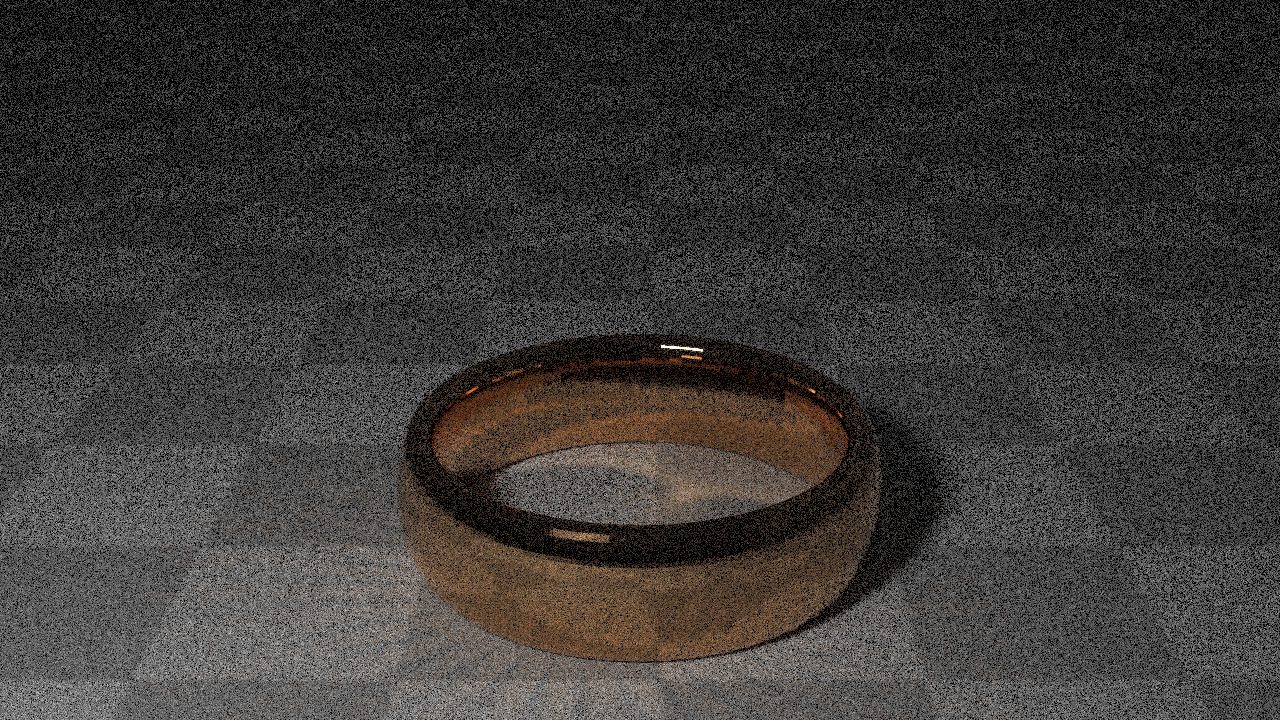
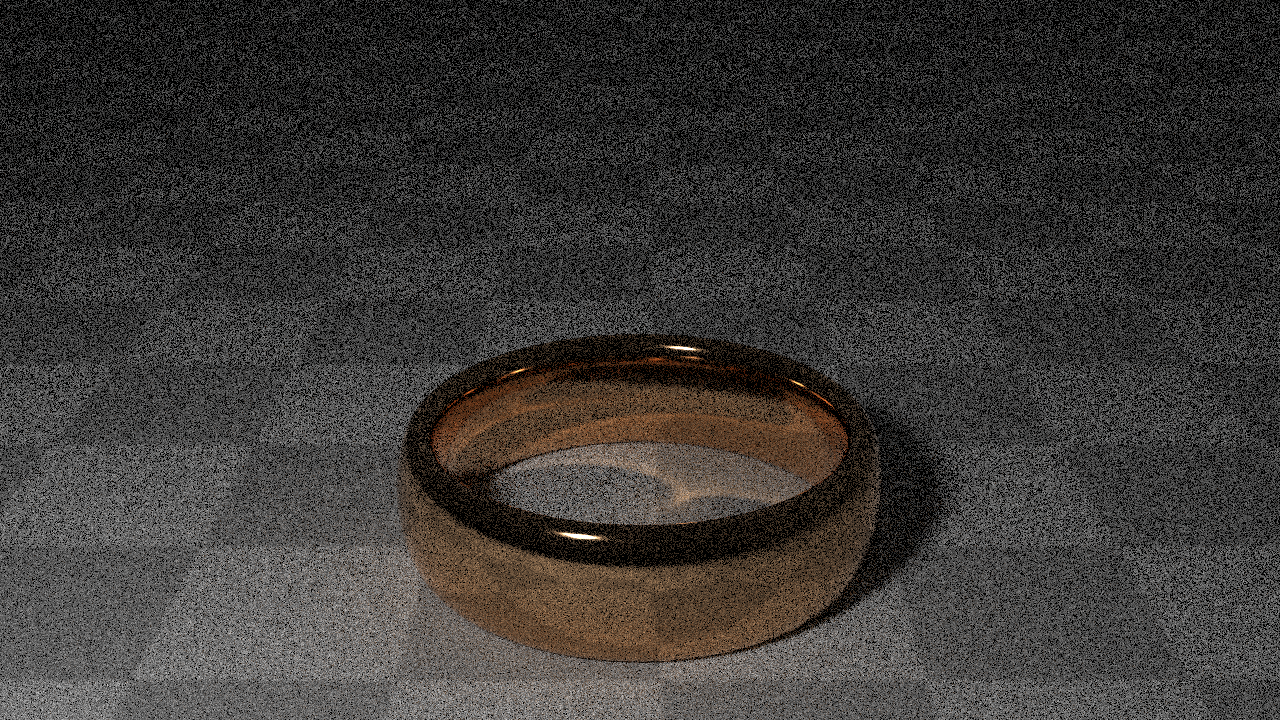
added smoothed vertex normals - gpu version

Changed region(s): [[0.25, 0.4583, 0.7188, 1.0], [0.3438, 0.9778, 0.375, 1.0]]

diff --git a/apps/VulkanPathTracePrototype.cpp b/apps/VulkanPathTracePrototype.cpp
@@ -41,6 +41,13 @@ struct PushConstantsSample
   alignas(4) int32_t nSamples;
   alignas(4) Vec3f backgroundColor;
 };
+struct TriangleData
+{
+  alignas(4) uint32_t vertexIndices[3];
+  alignas(4) uint32_t materialIndex;
+  alignas(4) Vec2f textureCoordinates[3];
+  alignas(4) int32_t normalIndices[3];
+};
 
 
 template<typename _PixelType>
@@ -202,18 +209,17 @@ public:
     {
       faceCount += scene.getTriangleCount(geometryID);
     }
-    std::vector<Vec2f> textureCoordinates;
-    textureCoordinates.reserve(faceCount * 3);
     std::vector<uint32_t> indices;
     indices.reserve(faceCount * 3);
-    std::vector<uint32_t> materialIndices;
-    materialIndices.reserve(faceCount);
+    std::vector<TriangleData> triangles;
+    triangles.reserve(faceCount);
+    const std::vector<float>& normals = scene.getNormals();
     std::vector<MaterialUniformBufferObject> materials;
     materials.reserve(scene.getMaterialCount());
 
     backgroundColor = Vec3f::Zero();
 
-    BackgroundColor const * backgroundColorObject = dynamic_cast<BackgroundColor const *>(&scene.getBackground());
+    BackgroundColor const* backgroundColorObject = dynamic_cast<BackgroundColor const*>(&scene.getBackground());
     if(backgroundColorObject != nullptr)
     {
       backgroundColor = backgroundColorObject->getColor();
@@ -283,16 +289,18 @@ public:
         indices.push_back(tri[0]);
         indices.push_back(tri[1]);
         indices.push_back(tri[2]);
-
-        materialIndices.push_back(scene.getMaterialIndex(geometryID, primIndex));
-
         std::array<Vec2f, 3> uv = { Vec2f::Zero(), Vec2f::Zero(), Vec2f::Zero() };
         std::optional< std::array<Vec2f, 3> > uvOptional = scene.getTriangleUV(geometryID, primIndex);
         if(uvOptional.has_value()) uv = uvOptional.value();
 
-        textureCoordinates.push_back(uv[0]);
-        textureCoordinates.push_back(uv[1]);
-        textureCoordinates.push_back(uv[2]);
+        std::array<int, 3> normalIndices = scene.getTriangleNormalIndices(geometryID, primIndex);
+
+        triangles.emplace_back();
+        auto& triangle = triangles.back();
+        triangle.materialIndex = scene.getMaterialIndex(geometryID, primIndex);
+        for(int i = 0; i < 3; i++) triangle.textureCoordinates[i] = uv[i];
+        for(int i = 0; i < 3; i++) triangle.vertexIndices[i] = tri[i];
+        for(int i = 0; i < 3; i++) triangle.normalIndices[i] = normalIndices[i];
       }
       faceOffset += geometryFaceCount;
     }
@@ -315,9 +323,9 @@ public:
     }
 
     std::size_t verticesByteCount = sizeof(decltype(vertices)::value_type) * vertices.size();
-    std::size_t textureCoordinatesByteCount = sizeof(decltype(textureCoordinates)::value_type) * textureCoordinates.size();
     std::size_t indicesByteCount = sizeof(decltype(indices)::value_type) * indices.size();
-    std::size_t materialIndicesByteCount = sizeof(decltype(materialIndices)::value_type) * materialIndices.size();
+    std::size_t trianglesByteCount = sizeof(decltype(triangles)::value_type) * triangles.size();
+    std::size_t normalsByteCount = sizeof(std::remove_reference_t<decltype(normals)>::value_type) * normals.size();
     std::size_t materialsByteCount = sizeof(decltype(materials)::value_type) * materials.size();
     std::size_t randomInputStateByteCount = sizeof(decltype(randomInputState)::value_type) * randomInputState.size();
 
@@ -332,14 +340,14 @@ public:
     vertexBuffer = std::make_unique<VulkanBuffer>(deviceAndQueue, verticesByteCount, accelerationStructureBufferUsageFlags, VK_MEMORY_PROPERTY_DEVICE_LOCAL_BIT | VK_MEMORY_PROPERTY_HOST_VISIBLE_BIT);
     vertexBuffer->write((void*)vertices.data(), verticesByteCount);
 
-    textureCoordinatesBuffer = std::make_unique<VulkanBuffer>(deviceAndQueue, textureCoordinatesByteCount, VK_BUFFER_USAGE_STORAGE_BUFFER_BIT, VK_MEMORY_PROPERTY_DEVICE_LOCAL_BIT | VK_MEMORY_PROPERTY_HOST_VISIBLE_BIT);
-    textureCoordinatesBuffer->write((void*)textureCoordinates.data(), textureCoordinatesByteCount);
-
     indexBuffer = std::make_unique<VulkanBuffer>(deviceAndQueue, indicesByteCount, accelerationStructureBufferUsageFlags, VK_MEMORY_PROPERTY_DEVICE_LOCAL_BIT | VK_MEMORY_PROPERTY_HOST_VISIBLE_BIT);
     indexBuffer->write((void*)indices.data(), indicesByteCount);
 
-    materialIndicesBuffer = std::make_unique<VulkanBuffer>(deviceAndQueue, materialIndicesByteCount, VK_BUFFER_USAGE_STORAGE_BUFFER_BIT, VK_MEMORY_PROPERTY_DEVICE_LOCAL_BIT | VK_MEMORY_PROPERTY_HOST_VISIBLE_BIT);
-    materialIndicesBuffer->write((void*)materialIndices.data(), materialIndicesByteCount);
+    trianglesBuffer = std::make_unique<VulkanBuffer>(deviceAndQueue, trianglesByteCount, VK_BUFFER_USAGE_STORAGE_BUFFER_BIT, VK_MEMORY_PROPERTY_DEVICE_LOCAL_BIT | VK_MEMORY_PROPERTY_HOST_VISIBLE_BIT);
+    trianglesBuffer->write((void*)triangles.data(), trianglesByteCount);
+
+    normalBuffer = std::make_unique<VulkanBuffer>(deviceAndQueue, normalsByteCount, VK_BUFFER_USAGE_STORAGE_BUFFER_BIT, VK_MEMORY_PROPERTY_DEVICE_LOCAL_BIT | VK_MEMORY_PROPERTY_HOST_VISIBLE_BIT);
+    normalBuffer->write((void*)normals.data(), normalsByteCount);
 
     materialBuffer = std::make_unique<VulkanBuffer>(deviceAndQueue, materialsByteCount, VK_BUFFER_USAGE_STORAGE_BUFFER_BIT, VK_MEMORY_PROPERTY_DEVICE_LOCAL_BIT | VK_MEMORY_PROPERTY_HOST_VISIBLE_BIT);
     materialBuffer->write((void*)materials.data(), materialsByteCount);
@@ -546,9 +554,8 @@ public:
     std::vector<VkDescriptorPoolSize> poolSizes = {
       vks::initializers::descriptorPoolSize(VK_DESCRIPTOR_TYPE_ACCELERATION_STRUCTURE_KHR, 1),  // tlas
       vks::initializers::descriptorPoolSize(VK_DESCRIPTOR_TYPE_STORAGE_BUFFER, 1), // Vertices
-      vks::initializers::descriptorPoolSize(VK_DESCRIPTOR_TYPE_STORAGE_BUFFER, 1), // TextureCoordinates
-      vks::initializers::descriptorPoolSize(VK_DESCRIPTOR_TYPE_STORAGE_BUFFER, 1), // Indices
-      vks::initializers::descriptorPoolSize(VK_DESCRIPTOR_TYPE_STORAGE_BUFFER, 1), // MaterialIndices
+      vks::initializers::descriptorPoolSize(VK_DESCRIPTOR_TYPE_STORAGE_BUFFER, 1), // TriangleData
+      vks::initializers::descriptorPoolSize(VK_DESCRIPTOR_TYPE_STORAGE_BUFFER, 1), // Normals
       vks::initializers::descriptorPoolSize(VK_DESCRIPTOR_TYPE_STORAGE_BUFFER, 1), // Materials
       vks::initializers::descriptorPoolSize(VK_DESCRIPTOR_TYPE_COMBINED_IMAGE_SAMPLER, albedoImages.size()), // albedoTextures
       vks::initializers::descriptorPoolSize(VK_DESCRIPTOR_TYPE_COMBINED_IMAGE_SAMPLER, metallicImages.size()), // metallicTextures
@@ -565,9 +572,8 @@ public:
     std::vector<VkDescriptorSetLayoutBinding> setLayoutBindings = {
       vks::initializers::descriptorSetLayoutBinding(VK_DESCRIPTOR_TYPE_ACCELERATION_STRUCTURE_KHR, VK_SHADER_STAGE_COMPUTE_BIT, 0), // tlas
       vks::initializers::descriptorSetLayoutBinding(VK_DESCRIPTOR_TYPE_STORAGE_BUFFER, VK_SHADER_STAGE_COMPUTE_BIT, 1),  // Vertices
-      vks::initializers::descriptorSetLayoutBinding(VK_DESCRIPTOR_TYPE_STORAGE_BUFFER, VK_SHADER_STAGE_COMPUTE_BIT, 2),  // TextureCoordinates
-      vks::initializers::descriptorSetLayoutBinding(VK_DESCRIPTOR_TYPE_STORAGE_BUFFER, VK_SHADER_STAGE_COMPUTE_BIT, 3), // Indices
-      vks::initializers::descriptorSetLayoutBinding(VK_DESCRIPTOR_TYPE_STORAGE_BUFFER, VK_SHADER_STAGE_COMPUTE_BIT, 4), // MaterialIndices
+      vks::initializers::descriptorSetLayoutBinding(VK_DESCRIPTOR_TYPE_STORAGE_BUFFER, VK_SHADER_STAGE_COMPUTE_BIT, 2),  // TriangleData
+      vks::initializers::descriptorSetLayoutBinding(VK_DESCRIPTOR_TYPE_STORAGE_BUFFER, VK_SHADER_STAGE_COMPUTE_BIT, 3),  // Normals
       vks::initializers::descriptorSetLayoutBinding(VK_DESCRIPTOR_TYPE_STORAGE_BUFFER, VK_SHADER_STAGE_COMPUTE_BIT, 5), // Materials
       vks::initializers::descriptorSetLayoutBinding(VK_DESCRIPTOR_TYPE_COMBINED_IMAGE_SAMPLER, VK_SHADER_STAGE_COMPUTE_BIT, 6, albedoImages.size()), // albedoTextures
       vks::initializers::descriptorSetLayoutBinding(VK_DESCRIPTOR_TYPE_COMBINED_IMAGE_SAMPLER, VK_SHADER_STAGE_COMPUTE_BIT, 7, metallicImages.size()), // metallicTextures
@@ -591,9 +597,8 @@ public:
     writeDescriptorSetAccelerationStructureKHR.pAccelerationStructures = &accelerationStructureTopLevel;
 
     VkDescriptorBufferInfo vertexDescriptorBufferInfo = vertexBuffer->descriptorBufferInfo();
-    VkDescriptorBufferInfo textureCoordinatesDescriptorBufferInfo = textureCoordinatesBuffer->descriptorBufferInfo();
-    VkDescriptorBufferInfo indexDescriptorBufferInfo = indexBuffer->descriptorBufferInfo();
-    VkDescriptorBufferInfo materialIndicesDescriptorBufferInfo = materialIndicesBuffer->descriptorBufferInfo();
+    VkDescriptorBufferInfo trianglesDescriptorBufferInfo = trianglesBuffer->descriptorBufferInfo();
+    VkDescriptorBufferInfo normalDescriptorBufferInfo = normalBuffer->descriptorBufferInfo();
     VkDescriptorBufferInfo materialDescriptorBufferInfo = materialBuffer->descriptorBufferInfo();
 
     std::vector<VkDescriptorImageInfo> albedoImagesDescriptorBufferInfos(albedoImages.size());
@@ -620,9 +625,8 @@ public:
     std::vector<VkWriteDescriptorSet> computeWriteDescriptorSets = {
       writeDescriptorSet(descriptorSet, VK_DESCRIPTOR_TYPE_ACCELERATION_STRUCTURE_KHR, 0, &writeDescriptorSetAccelerationStructureKHR), // tlas
       vks::initializers::writeDescriptorSet(descriptorSet, VK_DESCRIPTOR_TYPE_STORAGE_BUFFER, 1, &vertexDescriptorBufferInfo),  // Vertices
-      vks::initializers::writeDescriptorSet(descriptorSet, VK_DESCRIPTOR_TYPE_STORAGE_BUFFER, 2, &textureCoordinatesDescriptorBufferInfo),  // TextureCoordinates
-      vks::initializers::writeDescriptorSet(descriptorSet, VK_DESCRIPTOR_TYPE_STORAGE_BUFFER, 3, &indexDescriptorBufferInfo),  // Indices
-      vks::initializers::writeDescriptorSet(descriptorSet, VK_DESCRIPTOR_TYPE_STORAGE_BUFFER, 4, &materialIndicesDescriptorBufferInfo), // MaterialIndices
+      vks::initializers::writeDescriptorSet(descriptorSet, VK_DESCRIPTOR_TYPE_STORAGE_BUFFER, 2, &trianglesDescriptorBufferInfo),  // TriangleData
+      vks::initializers::writeDescriptorSet(descriptorSet, VK_DESCRIPTOR_TYPE_STORAGE_BUFFER, 3, &normalDescriptorBufferInfo),  // TriangleData
       vks::initializers::writeDescriptorSet(descriptorSet, VK_DESCRIPTOR_TYPE_STORAGE_BUFFER, 5, &materialDescriptorBufferInfo), // Materials
       vks::initializers::writeDescriptorSet(descriptorSet, VK_DESCRIPTOR_TYPE_COMBINED_IMAGE_SAMPLER, 6, albedoImagesDescriptorBufferInfos.data(), albedoImagesDescriptorBufferInfos.size()), // albedoTextures
       vks::initializers::writeDescriptorSet(descriptorSet, VK_DESCRIPTOR_TYPE_COMBINED_IMAGE_SAMPLER, 7, metallicImagesDescriptorBufferInfos.data(), metallicImages.size()), // metallicTextures
@@ -805,9 +809,9 @@ private:
   std::unique_ptr<VulkanBuffer> vertexBuffer;
   std::size_t vertexCount;
   std::size_t faceCount;
-  std::unique_ptr<VulkanBuffer> textureCoordinatesBuffer;
   std::unique_ptr<VulkanBuffer> indexBuffer;
-  std::unique_ptr<VulkanBuffer> materialIndicesBuffer;
+  std::unique_ptr<VulkanBuffer> trianglesBuffer;
+  std::unique_ptr<VulkanBuffer> normalBuffer;
   std::unique_ptr<VulkanBuffer> materialBuffer;
   std::unique_ptr<VulkanBuffer> randomInputStateBuffer;
   std::vector<std::unique_ptr<VulkanBuffer> > albedoImageBuffers;

diff --git a/src/Scene.cpp b/src/Scene.cpp
@@ -404,6 +404,10 @@ const std::vector<float>& Scene::getVertices() const
 {
   return reader.GetAttrib().vertices;
 }
+const std::vector<float>& Scene::getNormals() const
+{
+  return reader.GetAttrib().normals;
+}
 std::size_t Scene::getTriangleCount(std::size_t geomID) const
 {
   const std::vector<tinyobj::shape_t>& shapes = reader.GetShapes();
@@ -418,6 +422,24 @@ std::array<int, 3> Scene::getTriangleVertexIndices(std::size_t geomID, std::size
     shapes[geomID].mesh.indices[3 * primID + 0].vertex_index,
     shapes[geomID].mesh.indices[3 * primID + 1].vertex_index,
     shapes[geomID].mesh.indices[3 * primID + 2].vertex_index
+  };
+  return idcs;
+}
+std::array<int, 3> Scene::getTriangleNormalIndices(std::size_t geomID, std::size_t primID) const
+{
+  const tinyobj::attrib_t& attrib = reader.GetAttrib();
+  const std::vector<tinyobj::shape_t>& shapes = reader.GetShapes();
+
+  bool smoothNormalTangents = shapes[geomID].mesh.smoothing_group_ids[primID] != 0;
+  if(!smoothNormalTangents)
+  {
+    std::array<int, 3> nullIdcs = { -1, -1, -1 };
+    return nullIdcs;
+  }
+  std::array<int, 3> idcs = {
+    shapes[geomID].mesh.indices[3 * primID + 0].normal_index,
+    shapes[geomID].mesh.indices[3 * primID + 1].normal_index,
+    shapes[geomID].mesh.indices[3 * primID + 2].normal_index
   };
   return idcs;
 }

diff --git a/include/Hasty/Scene.h b/include/Hasty/Scene.h
@@ -88,8 +88,10 @@ protected:
 public:
   std::vector<std::size_t> getGeometryIDs() const;
   const std::vector<float>& getVertices() const;
+  const std::vector<float>& getNormals() const;
   std::size_t getTriangleCount(std::size_t geomID) const;
   std::array<int, 3> getTriangleVertexIndices(std::size_t geomID, std::size_t primID) const;
+  std::array<int, 3> getTriangleNormalIndices(std::size_t geomID, std::size_t primID) const;
   std::optional< std::array<Vec2f, 3> > getTriangleUV(std::size_t geomID, std::size_t primID) const
   {
     return collectTriangleUV(reader, geomID, primID);
